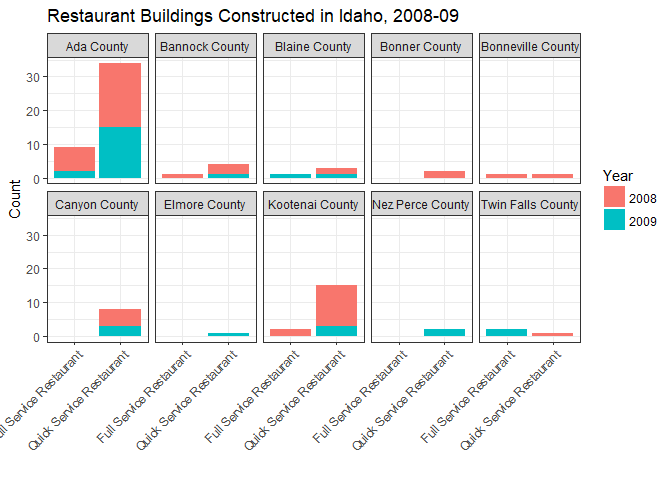
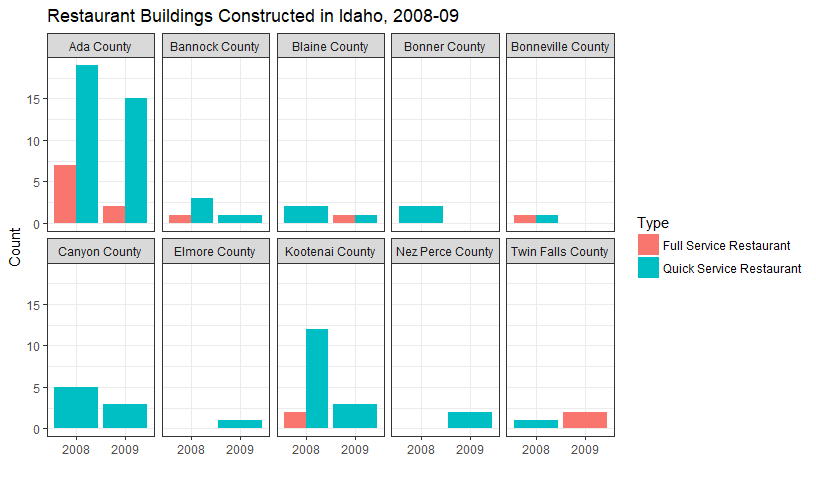
Changed 1st Plot. Swapped fill and x variables.

Changed region(s): [[0.0, 0.0, 1.0, 0.9688], [0.0312, 0.6875, 0.0938, 0.75], [0.25, 0.7188, 0.2812, 0.7812]]

diff --git a/Case_Study_06/Case_Study_06.html b/Case_Study_06/Case_Study_06.html
@@ -183,7 +183,7 @@ de_comida &lt;- edificios %&gt;%
                     ifelse(ProjectTitle %in% quick_service_type | ProjectTitle %in% quick_service_names, &quot;Quick Service Restaurant&quot;, 
                     ifelse(SqFt &gt;= 4000 , &quot;Full Service Restaurant&quot;, 
                     ifelse(SqFt &lt; 4000, &quot;Quick Service Restaurant&quot;, &quot;Unknown&quot;)))))))
-# I did not know how to define &quot;NEW&quot; constructions, when all are from 2008 or 2009.
+# I did not know how to define &quot;NEW&quot; constructions; all are from 2008 or 2009.
 
 edificios &lt;- edificios %&gt;% 
   filter(Type != &quot;Food_Beverage_Service&quot;) %&gt;% 
@@ -193,13 +193,16 @@ edificios &lt;- edificios %&gt;%
 <p>How did full-service restaurant construction compare to quick service restaurant construction across county and years?</p>
 <pre class="r"><code>de_comida %&gt;% 
   filter(SubGroup %in% c(&quot;Full Service Restaurant&quot;, &quot;Quick Service Restaurant&quot;)) %&gt;%
-  ggplot(aes(SubGroup, fill = Year)) +
+  # mutate_at(c(&quot;SubGroup&quot;, &quot;Year&quot;), as.factor) %&gt;% 
+  # complete(SubGroup,Year) %&gt;%
+  ggplot(aes(Year, fill = SubGroup)) +
   theme_bw() +
-  geom_bar(position = &quot;stack&quot;) +
+  geom_bar(position = &quot;dodge&quot;) +
+  # stat_count(geom = &quot;col&quot;, position = &quot;dodge&quot;) +
   facet_wrap( ~ AreaName, ncol = 5) +
-  theme(axis.text.x = element_text(angle = 45, hjust = 1)) +
-  labs(x = &quot;&quot;, y = &quot;Count&quot;, title = &quot;Restaurant Buildings Constructed in Idaho, 2008-09&quot;)</code></pre>
[1 lines of base64/hex data omitted]
+  # theme(axis.text.x = element_text(angle = 45, hjust = 1)) +
+  labs(x = &quot;&quot;, y = &quot;Count&quot;, title = &quot;Restaurant Buildings Constructed in Idaho, 2008-09&quot;, fill = &quot;Type&quot;)</code></pre>
[1 lines of base64/hex data omitted]
 <p>It should be noted that Ada county has the highest population. Quick service types were constructed faster than full service types except for in Twin Falls County.</p>
 <p></br></p>
 <p>How did restaurant construction fare compare to the other commercial construction in Idaho?</p>
@@ -221,8 +224,8 @@ edificios &lt;- edificios %&gt;%
   summarise(WeightedTotal = weighted.mean(TotalExpenses, Pop100)) %&gt;%
   arrange(desc(WeightedTotal)) %&gt;% 
   datatable()</code></pre>
-<div id="htmlwidget-47116a745b7c48848000" style="width:100%;height:auto;" class="datatables html-widget"></div>
-<script type="application/json" data-for="htmlwidget-47116a745b7c48848000">{"x":{"filter":"none","data":[["1","2","3","4","5","6","7","8","9","10","11","12","13","14","15","16"],["Ada County","Ada County","Kootenai County","Twin Falls County","Bonneville County","Blaine County","Elmore County","Canyon County","Bannock County","Kootenai County","Canyon County","Bonner County","Bannock County","Blaine County","Nez Perce County","Twin Falls County"],["2008","2009","2008","2009","2008","2009","2009","2008","2008","2009","2009","2008","2009","2008","2009","2008"],[10577000,4829000,4014000,1613000,1414000,1360000,1284000,1235000,1205000,966000,580000,579000,500000,475000,168000,136000]],"container":"<table class=\"display\">\n  <thead>\n    <tr>\n      <th> <\/th>\n      <th>AreaName<\/th>\n      <th>Year<\/th>\n      <th>WeightedTotal<\/th>\n    <\/tr>\n  <\/thead>\n<\/table>","options":{"columnDefs":[{"className":"dt-right","targets":3},{"orderable":false,"targets":0}],"order":[],"autoWidth":false,"orderClasses":false}},"evals":[],"jsHooks":[]}</script>
+<div id="htmlwidget-d8cc8bc0ef62a44d07dd" style="width:100%;height:auto;" class="datatables html-widget"></div>
+<script type="application/json" data-for="htmlwidget-d8cc8bc0ef62a44d07dd">{"x":{"filter":"none","data":[["1","2","3","4","5","6","7","8","9","10","11","12","13","14","15","16"],["Ada County","Ada County","Kootenai County","Twin Falls County","Bonneville County","Blaine County","Elmore County","Canyon County","Bannock County","Kootenai County","Canyon County","Bonner County","Bannock County","Blaine County","Nez Perce County","Twin Falls County"],["2008","2009","2008","2009","2008","2009","2009","2008","2008","2009","2009","2008","2009","2008","2009","2008"],[10577000,4829000,4014000,1613000,1414000,1360000,1284000,1235000,1205000,966000,580000,579000,500000,475000,168000,136000]],"container":"<table class=\"display\">\n  <thead>\n    <tr>\n      <th> <\/th>\n      <th>AreaName<\/th>\n      <th>Year<\/th>\n      <th>WeightedTotal<\/th>\n    <\/tr>\n  <\/thead>\n<\/table>","options":{"columnDefs":[{"className":"dt-right","targets":3},{"orderable":false,"targets":0}],"order":[],"autoWidth":false,"orderClasses":false}},"evals":[],"jsHooks":[]}</script>
 <p></br></p>
 <p>In that county how did other commercial construction compare?</p>
 <p>This boxplot shows the distibutions of the prices of buildings.</p>

diff --git a/Case_Study_06/Case_Study_06.md b/Case_Study_06/Case_Study_06.md
@@ -48,7 +48,7 @@ de_comida <- edificios %>%
                     ifelse(ProjectTitle %in% quick_service_type | ProjectTitle %in% quick_service_names, "Quick Service Restaurant", 
                     ifelse(SqFt >= 4000 , "Full Service Restaurant", 
                     ifelse(SqFt < 4000, "Quick Service Restaurant", "Unknown")))))))
-# I did not know how to define "NEW" constructions, when all are from 2008 or 2009.
+# I did not know how to define "NEW" constructions; all are from 2008 or 2009.
 
 edificios <- edificios %>% 
   filter(Type != "Food_Beverage_Service") %>% 
@@ -64,12 +64,15 @@ How did full-service restaurant construction compare to quick service restaurant
 ```r
 de_comida %>% 
   filter(SubGroup %in% c("Full Service Restaurant", "Quick Service Restaurant")) %>%
-  ggplot(aes(SubGroup, fill = Year)) +
+  # mutate_at(c("SubGroup", "Year"), as.factor) %>% 
+  # complete(SubGroup,Year) %>%
+  ggplot(aes(Year, fill = SubGroup)) +
   theme_bw() +
-  geom_bar(position = "stack") +
+  geom_bar(position = "dodge") +
+  # stat_count(geom = "col", position = "dodge") +
   facet_wrap( ~ AreaName, ncol = 5) +
-  theme(axis.text.x = element_text(angle = 45, hjust = 1)) +
-  labs(x = "", y = "Count", title = "Restaurant Buildings Constructed in Idaho, 2008-09")
+  # theme(axis.text.x = element_text(angle = 45, hjust = 1)) +
+  labs(x = "", y = "Count", title = "Restaurant Buildings Constructed in Idaho, 2008-09", fill = "Type")
 ```
 
 ![](Case_Study_06_files/figure-html/unnamed-chunk-2-1.png)<!-- -->
@@ -109,8 +112,8 @@ edificios %>%
   datatable()
 ```
 
-<!--html_preserve--><div id="htmlwidget-47116a745b7c48848000" style="width:100%;height:auto;" class="datatables html-widget"></div>
-<script type="application/json" data-for="htmlwidget-47116a745b7c48848000">{"x":{"filter":"none","data":[["1","2","3","4","5","6","7","8","9","10","11","12","13","14","15","16"],["Ada County","Ada County","Kootenai County","Twin Falls County","Bonneville County","Blaine County","Elmore County","Canyon County","Bannock County","Kootenai County","Canyon County","Bonner County","Bannock County","Blaine County","Nez Perce County","Twin Falls County"],["2008","2009","2008","2009","2008","2009","2009","2008","2008","2009","2009","2008","2009","2008","2009","2008"],[10577000,4829000,4014000,1613000,1414000,1360000,1284000,1235000,1205000,966000,580000,579000,500000,475000,168000,136000]],"container":"<table class=\"display\">\n  <thead>\n    <tr>\n      <th> <\/th>\n      <th>AreaName<\/th>\n      <th>Year<\/th>\n      <th>WeightedTotal<\/th>\n    <\/tr>\n  <\/thead>\n<\/table>","options":{"columnDefs":[{"className":"dt-right","targets":3},{"orderable":false,"targets":0}],"order":[],"autoWidth":false,"orderClasses":false}},"evals":[],"jsHooks":[]}</script><!--/html_preserve-->
+<!--html_preserve--><div id="htmlwidget-d8cc8bc0ef62a44d07dd" style="width:100%;height:auto;" class="datatables html-widget"></div>
+<script type="application/json" data-for="htmlwidget-d8cc8bc0ef62a44d07dd">{"x":{"filter":"none","data":[["1","2","3","4","5","6","7","8","9","10","11","12","13","14","15","16"],["Ada County","Ada County","Kootenai County","Twin Falls County","Bonneville County","Blaine County","Elmore County","Canyon County","Bannock County","Kootenai County","Canyon County","Bonner County","Bannock County","Blaine County","Nez Perce County","Twin Falls County"],["2008","2009","2008","2009","2008","2009","2009","2008","2008","2009","2009","2008","2009","2008","2009","2008"],[10577000,4829000,4014000,1613000,1414000,1360000,1284000,1235000,1205000,966000,580000,579000,500000,475000,168000,136000]],"container":"<table class=\"display\">\n  <thead>\n    <tr>\n      <th> <\/th>\n      <th>AreaName<\/th>\n      <th>Year<\/th>\n      <th>WeightedTotal<\/th>\n    <\/tr>\n  <\/thead>\n<\/table>","options":{"columnDefs":[{"className":"dt-right","targets":3},{"orderable":false,"targets":0}],"order":[],"autoWidth":false,"orderClasses":false}},"evals":[],"jsHooks":[]}</script><!--/html_preserve-->
 
 
 </br>
